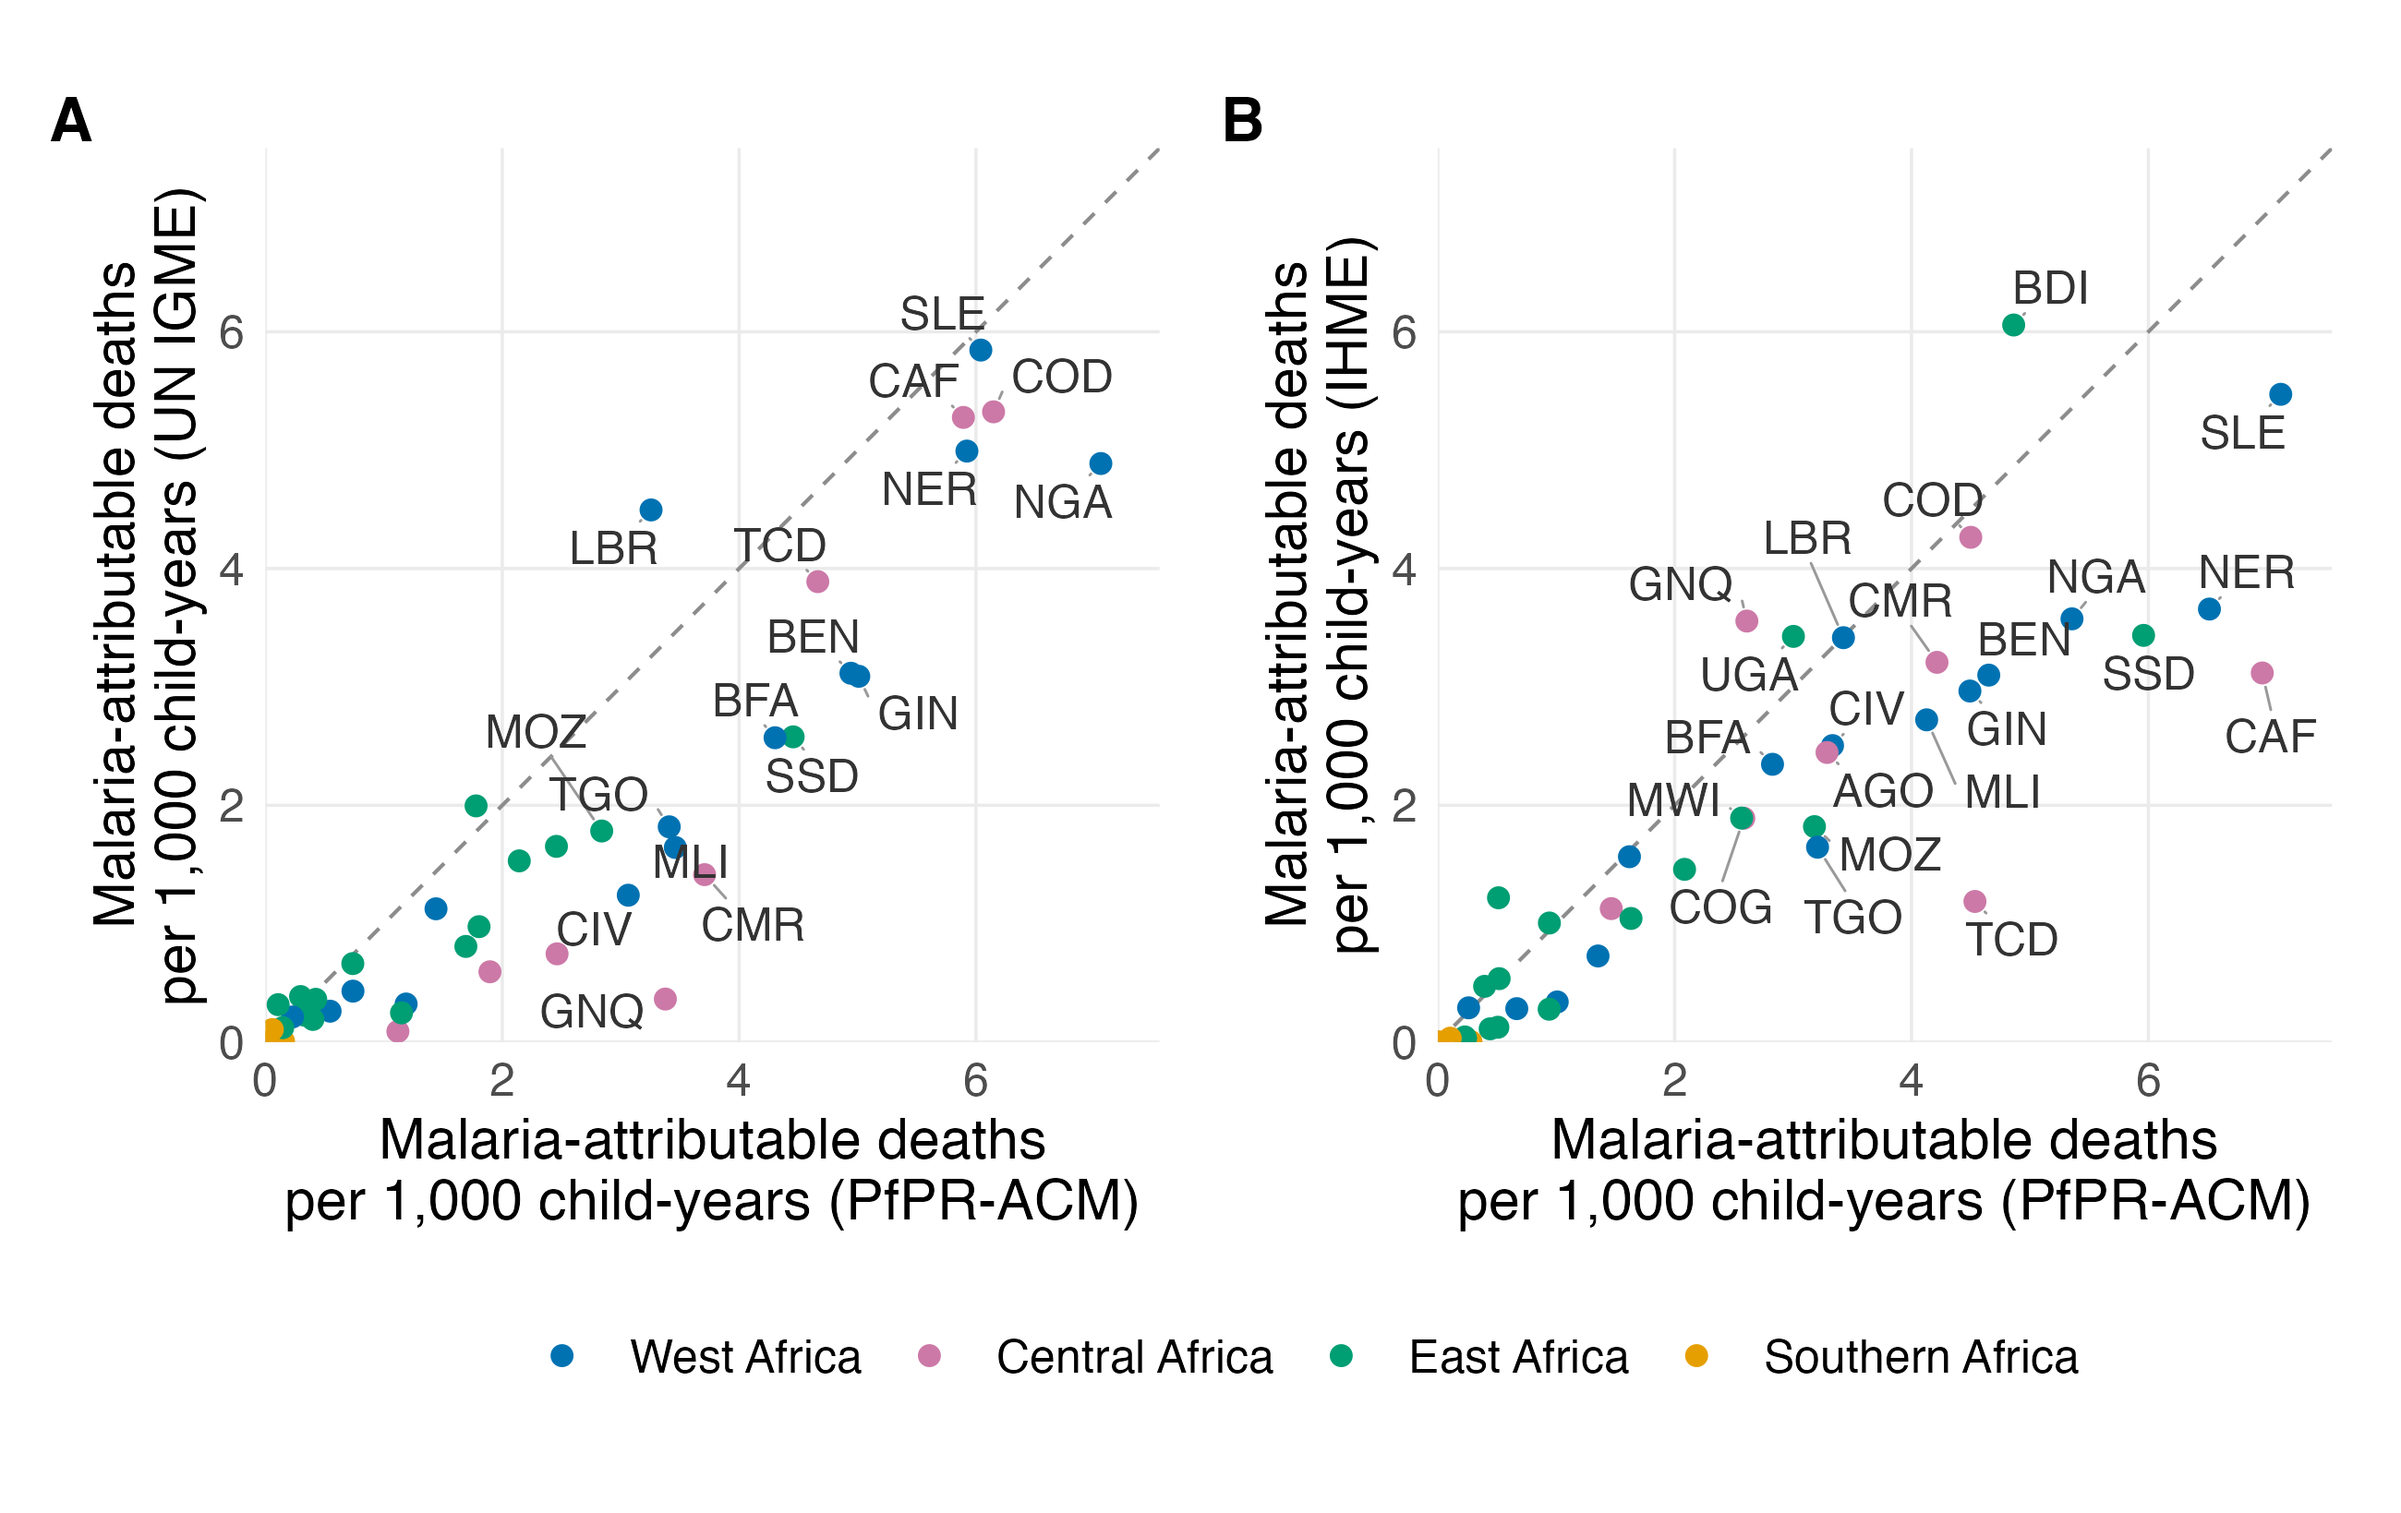
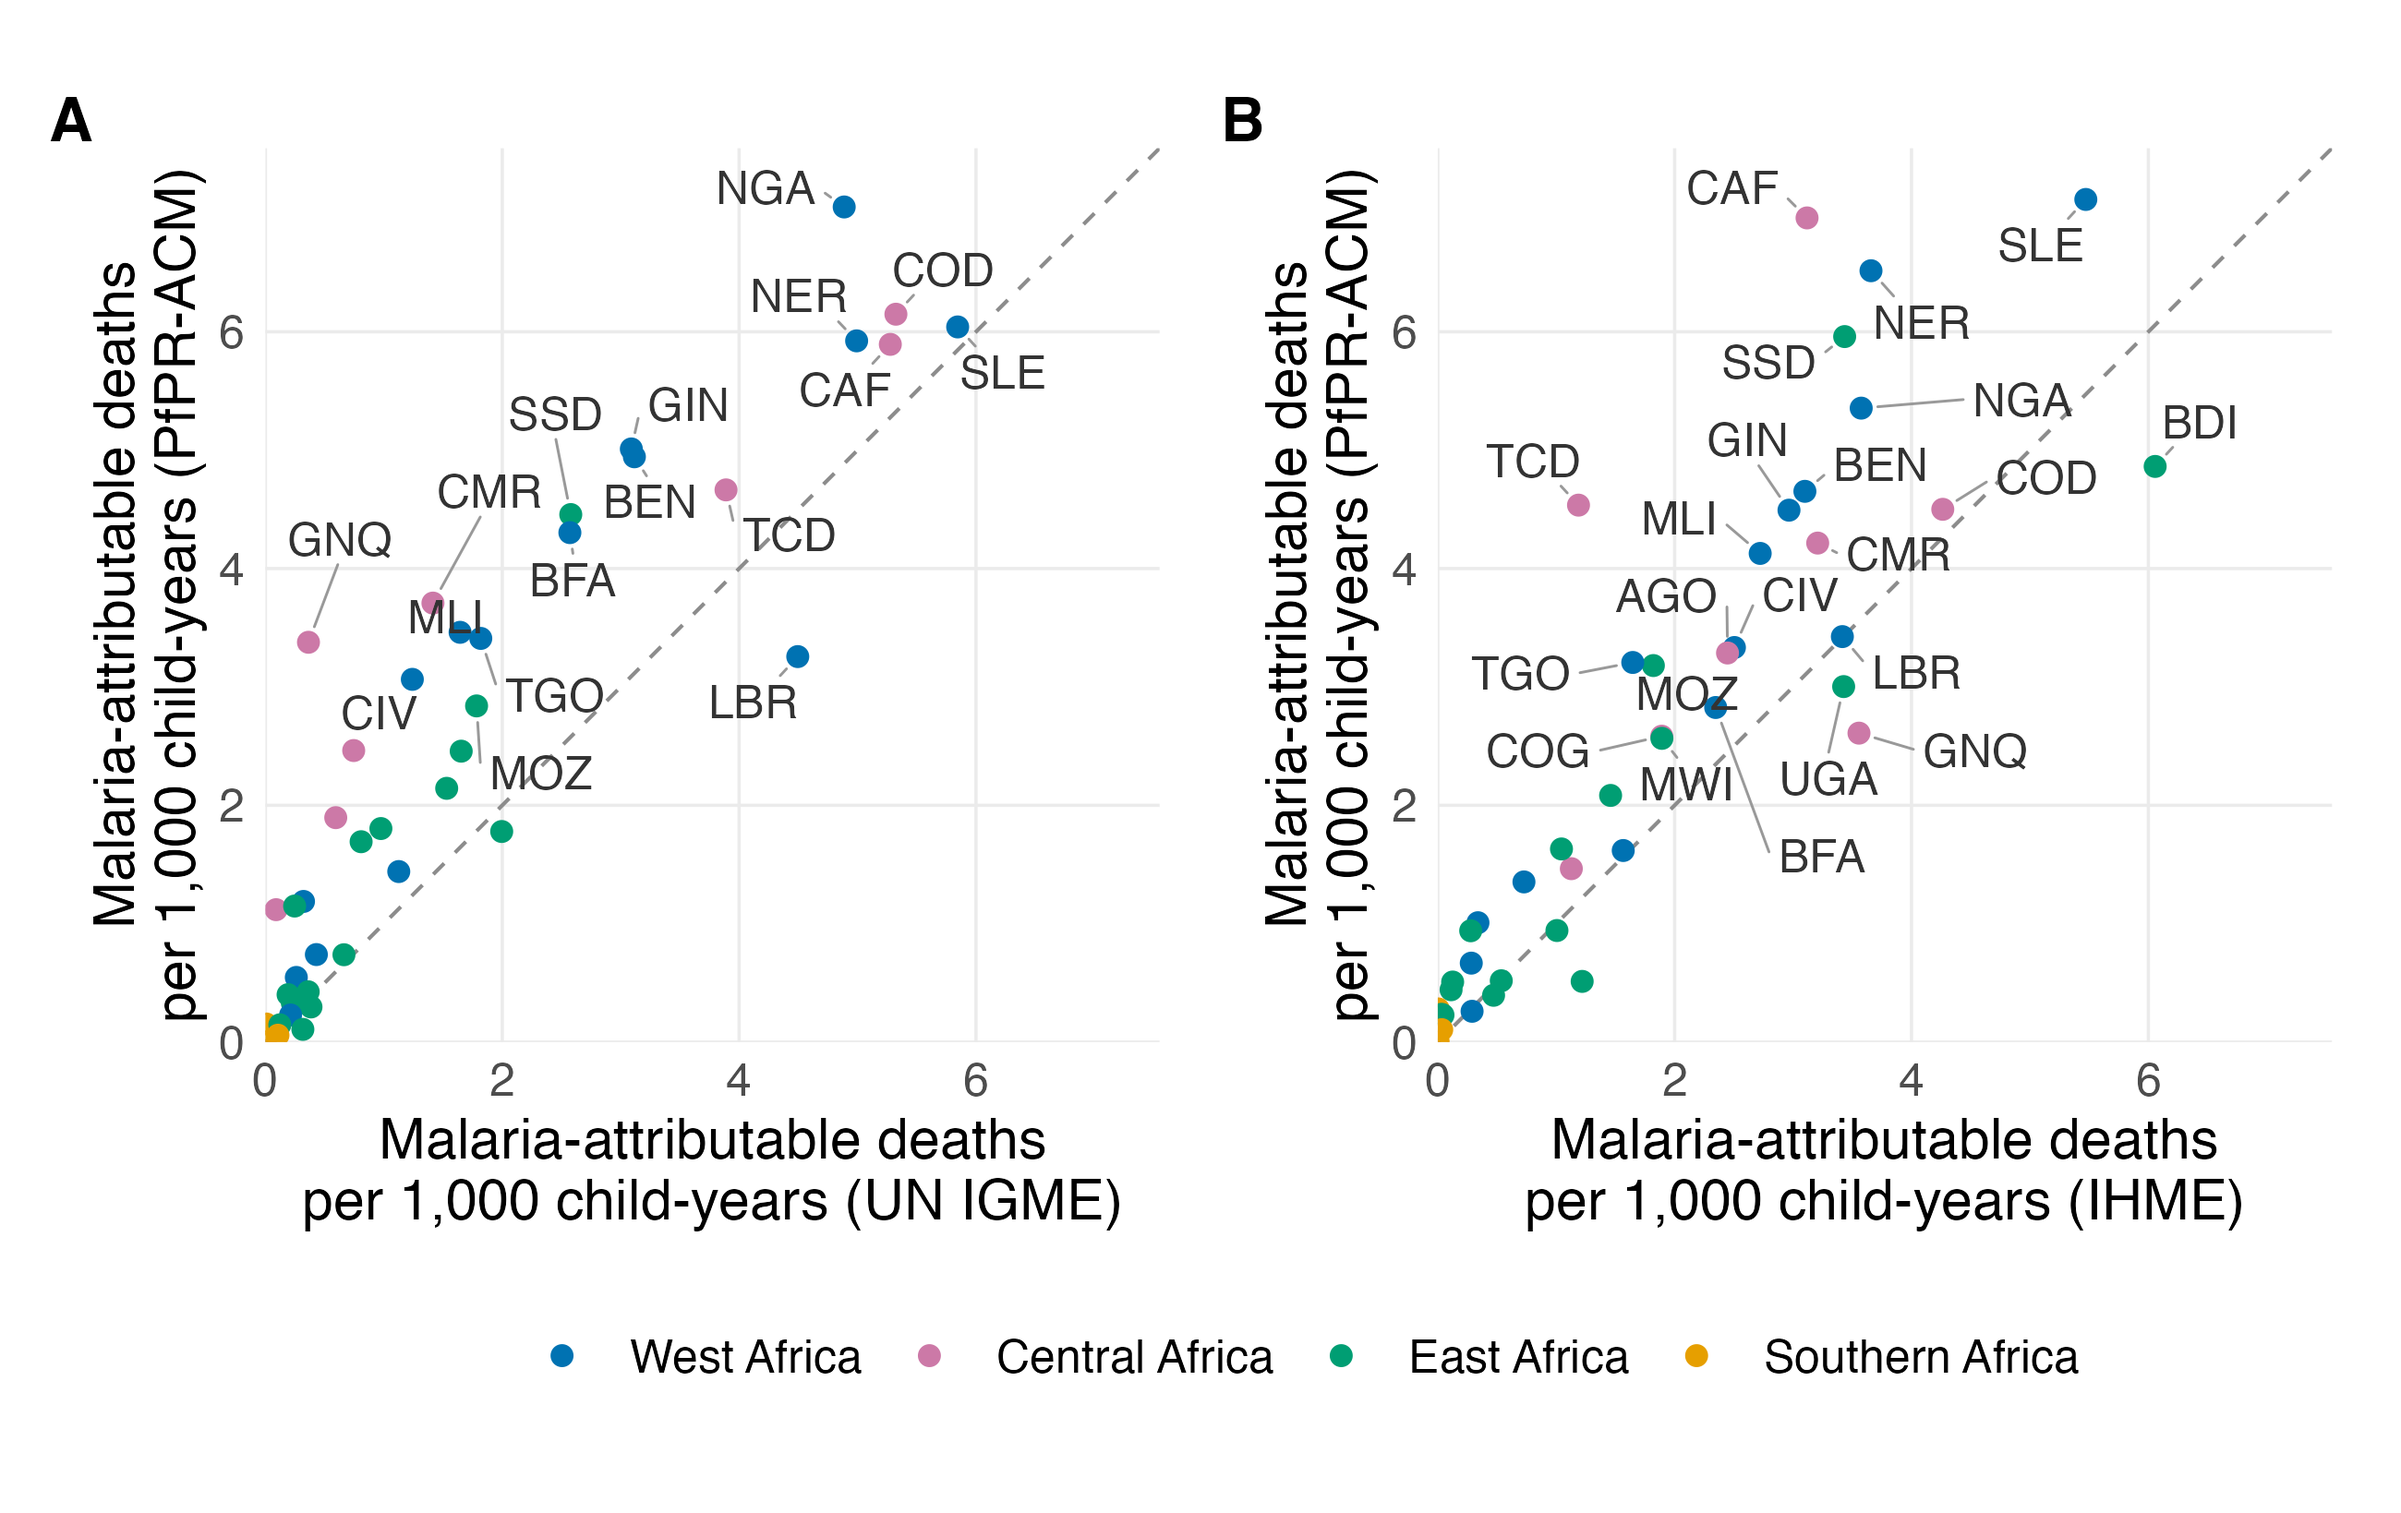
paper/: Figure 5 with swapped axes and its caption (export after the Figure 5 commit; validation passed)

diff --git a/paper/figures/primary_figure_captions.md b/paper/figures/primary_figure_captions.md
@@ -34,7 +34,7 @@ File: `fig4_malaria_mortality_rates_unigme.png` (source `mortality_rates/fig_mal
 
 File: `fig5_model_vs_cause_specific_2024.png` (source `model_vs_cause_specific/fig5_model_vs_cause_specific_2024.png`; values in `model_vs_cause_specific/figure_data.csv`).
 
-**Figure. Malaria-attributable under-five mortality in 2024: PfPR-ACM model against cause-specific estimates.** Each point is a country; rates are deaths per 1,000 child-years under 5. (A) PfPR-ACM estimates using UN IGME all-cause mortality against UN IGME (CA-CODE) malaria deaths, both over the UN WPP population under 5. (B) PfPR-ACM estimates using IHME all-cause mortality against IHME malaria deaths, both over IHME person-years. The PfPR-ACM estimate counts all deaths averted if prevalence fell to zero (direct and indirect); the cause-specific estimates count deaths assigned to malaria as the underlying cause. The dashed line is equality; countries are coloured by UN M49 sub-region (Middle Africa as Central Africa), and those at 2.5 or more per 1,000 on either axis are labelled with their ISO 3166-1 alpha-3 codes. Spearman correlation: 0.91 (A) and 0.91 (B); the PfPR-ACM estimate is higher in 37 (A) and 34 (B) of 42 countries. CA-CODE takes malaria from WHO estimates in 13 low-burden countries; South Sudan's IHME all-cause mortality is its crisis-free value. Point estimates only.
+**Figure. Malaria-attributable under-five mortality in 2024: PfPR-ACM model against cause-specific estimates.** Each point is a country; rates are deaths per 1,000 child-years under 5. (A) PfPR-ACM estimates using UN IGME all-cause mortality (y) against UN IGME (CA-CODE) malaria deaths (x), both over the UN WPP population under 5. (B) PfPR-ACM estimates using IHME all-cause mortality (y) against IHME malaria deaths (x), both over IHME person-years. The PfPR-ACM estimate counts all deaths averted if prevalence fell to zero (direct and indirect); the cause-specific estimates count deaths assigned to malaria as the underlying cause. The dashed line is equality; countries are coloured by UN M49 sub-region (Middle Africa as Central Africa), and those at 2.5 or more per 1,000 on either axis are labelled with their ISO 3166-1 alpha-3 codes. Spearman correlation: 0.91 (A) and 0.91 (B); the PfPR-ACM estimate is higher in 37 (A) and 34 (B) of 42 countries. CA-CODE takes malaria from WHO estimates in 13 low-burden countries; South Sudan's IHME all-cause mortality is its crisis-free value. Point estimates only.
 
 ## Supplementary figure — comparison with IHME and UN IGME as deaths per 1,000 child-years: countries (A), Nigerian states (B) and annual trend (C) (formerly Figure 3)
 

diff --git a/paper/figures/fig5_model_vs_cause_specific_2024_caption.md b/paper/figures/fig5_model_vs_cause_specific_2024_caption.md
@@ -1,3 +1,3 @@
 # Figure 5 caption — PfPR-ACM against cause-specific malaria mortality, by country
 
-**Figure. Malaria-attributable under-five mortality in 2024: PfPR-ACM model against cause-specific estimates.** Each point is a country; rates are deaths per 1,000 child-years under 5. (A) PfPR-ACM estimates using UN IGME all-cause mortality against UN IGME (CA-CODE) malaria deaths, both over the UN WPP population under 5. (B) PfPR-ACM estimates using IHME all-cause mortality against IHME malaria deaths, both over IHME person-years. The PfPR-ACM estimate counts all deaths averted if prevalence fell to zero (direct and indirect); the cause-specific estimates count deaths assigned to malaria as the underlying cause. The dashed line is equality; countries are coloured by UN M49 sub-region (Middle Africa as Central Africa), and those at 2.5 or more per 1,000 on either axis are labelled with their ISO 3166-1 alpha-3 codes. Spearman correlation: 0.91 (A) and 0.91 (B); the PfPR-ACM estimate is higher in 37 (A) and 34 (B) of 42 countries. CA-CODE takes malaria from WHO estimates in 13 low-burden countries; South Sudan's IHME all-cause mortality is its crisis-free value. Point estimates only.
+**Figure. Malaria-attributable under-five mortality in 2024: PfPR-ACM model against cause-specific estimates.** Each point is a country; rates are deaths per 1,000 child-years under 5. (A) PfPR-ACM estimates using UN IGME all-cause mortality (y) against UN IGME (CA-CODE) malaria deaths (x), both over the UN WPP population under 5. (B) PfPR-ACM estimates using IHME all-cause mortality (y) against IHME malaria deaths (x), both over IHME person-years. The PfPR-ACM estimate counts all deaths averted if prevalence fell to zero (direct and indirect); the cause-specific estimates count deaths assigned to malaria as the underlying cause. The dashed line is equality; countries are coloured by UN M49 sub-region (Middle Africa as Central Africa), and those at 2.5 or more per 1,000 on either axis are labelled with their ISO 3166-1 alpha-3 codes. Spearman correlation: 0.91 (A) and 0.91 (B); the PfPR-ACM estimate is higher in 37 (A) and 34 (B) of 42 countries. CA-CODE takes malaria from WHO estimates in 13 low-burden countries; South Sudan's IHME all-cause mortality is its crisis-free value. Point estimates only.
